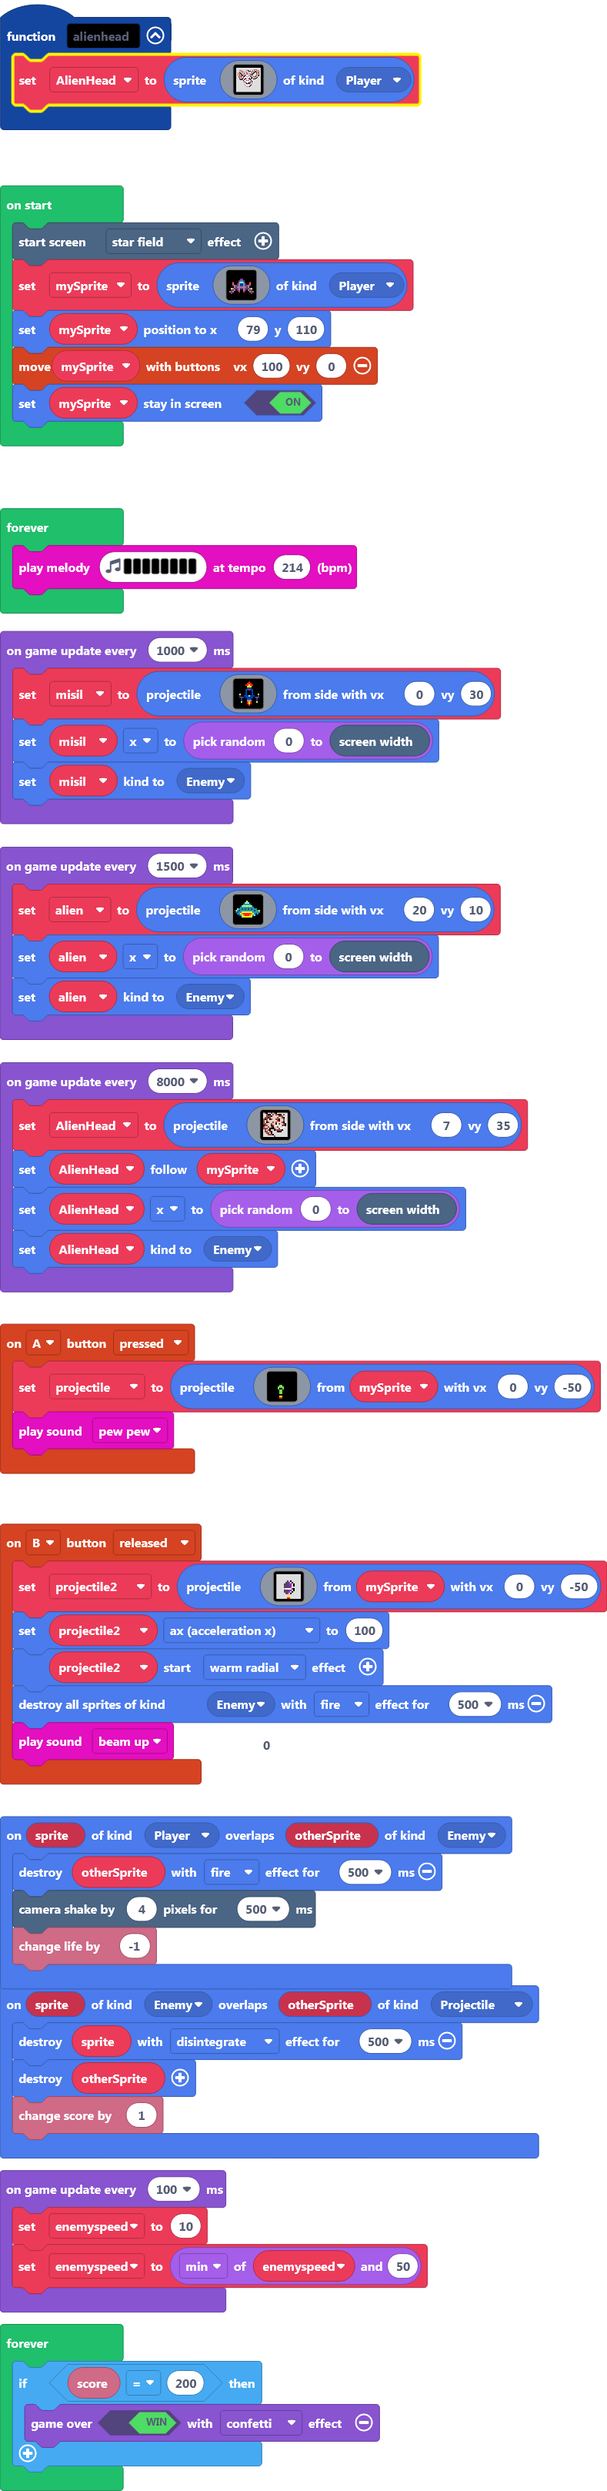
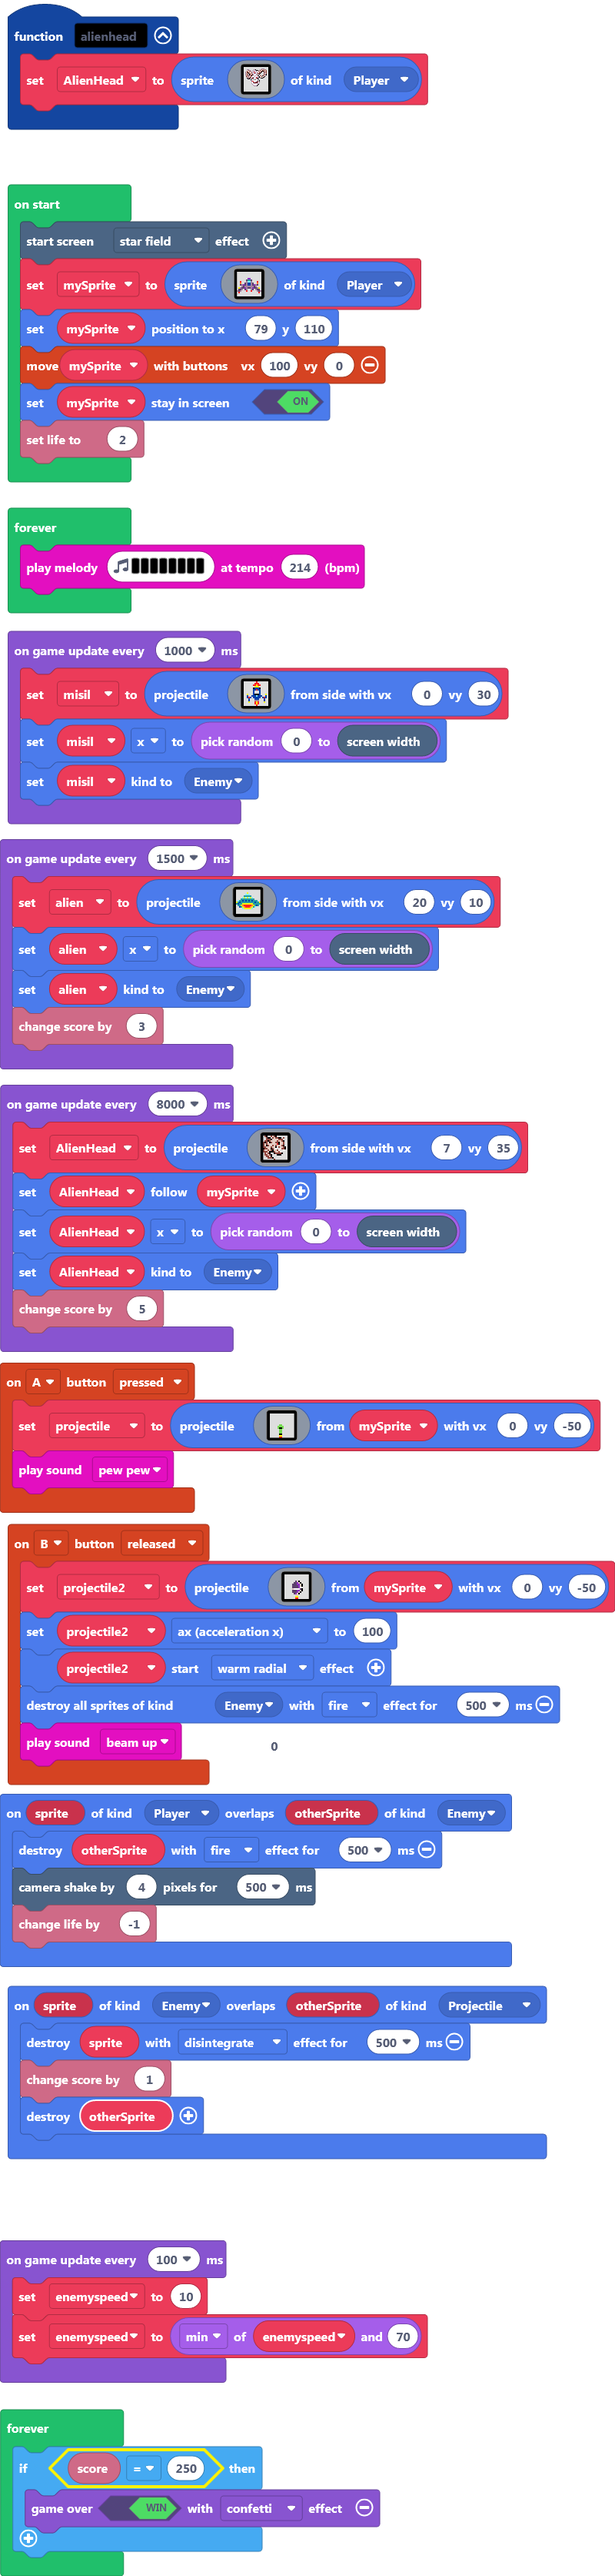
score tables/difficult settings

diff --git a/main.ts b/main.ts
@@ -7,8 +7,8 @@ controller.A.onEvent(ControllerButtonEvent.Pressed, function () {
 })
 sprites.onOverlap(SpriteKind.Enemy, SpriteKind.Projectile, function (sprite, otherSprite) {
     sprite.destroy(effects.disintegrate, 500)
-    otherSprite.destroy()
     info.changeScoreBy(1)
+    otherSprite.destroy()
 })
 controller.B.onEvent(ControllerButtonEvent.Released, function () {
     projectile2 = sprites.createProjectileFromSprite(assets.image`bomb`, mySprite, 0, -50)
@@ -34,6 +34,7 @@ mySprite = sprites.create(assets.image`falconX`, SpriteKind.Player)
 mySprite.setPosition(79, 110)
 controller.moveSprite(mySprite, 100, 0)
 mySprite.setStayInScreen(true)
+info.setLife(2)
 game.onUpdateInterval(1000, function () {
     misil = sprites.createProjectileFromSide(assets.image`misile`, 0, 30)
     misil.x = randint(0, scene.screenWidth())
@@ -43,22 +44,24 @@ game.onUpdateInterval(1500, function () {
     alien = sprites.createProjectileFromSide(assets.image`ufo`, 20, 10)
     alien.x = randint(0, scene.screenWidth())
     alien.setKind(SpriteKind.Enemy)
+    info.changeScoreBy(3)
 })
 forever(function () {
     music.playMelody("B - A - F E F D ", 214)
 })
 forever(function () {
-    if (info.score() == 200) {
+    if (info.score() == 250) {
         game.over(true, effects.confetti)
     }
 })
 game.onUpdateInterval(100, function () {
     enemyspeed = 10
-    enemyspeed = Math.min(enemyspeed, 50)
+    enemyspeed = Math.min(enemyspeed, 70)
 })
 game.onUpdateInterval(8000, function () {
     AlienHead = sprites.createProjectileFromSide(assets.image`alien_worm0`, 7, 35)
     AlienHead.follow(mySprite)
     AlienHead.x = randint(0, scene.screenWidth())
     AlienHead.setKind(SpriteKind.Enemy)
+    info.changeScoreBy(5)
 })
